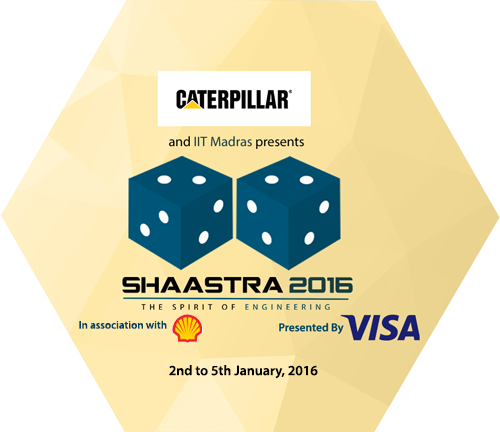
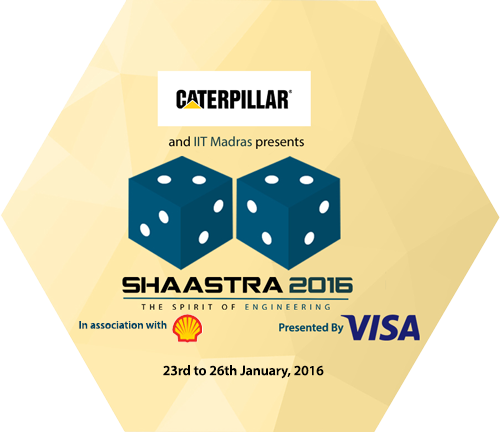
change dates

Changed region(s): [[0.33, 0.8426, 0.66, 0.8727]]

diff --git a/projects/mainsite/app/scripts/controllers/homepage.js b/projects/mainsite/app/scripts/controllers/homepage.js
@@ -67,7 +67,7 @@ angular.module('shaastra2016App')
   .controller("HomeCtrl", function ($scope, $timeout, ipCookie, $location, $anchorScroll) {
     animateHexagons();
 
-    var demo = ["Registrations have been opened!!!", "Checkout <a target='_blank' href='/#/shaastra-fellowship'>Shaastra Fellowship</a>"];
+    var demo = ["Shaastra-2016 is from 23rd January to 26th January 2016", "Registrations have been opened!!!", "Checkout <a target='_blank' href='/#/shaastra-fellowship'>Shaastra Fellowship</a>"];
     var a = 0;
     function changeText() {
       var blinkText = document.getElementById("blinkText");

diff --git a/projects/mainsite/app/views/homepage.html b/projects/mainsite/app/views/homepage.html
@@ -23,7 +23,7 @@
 
   <div class="container">
     <div id="blinkDiv">
-      <h4 id="blinkText">Registrations have been opened!!!</h4>
+      <h4 id="blinkText">Shaastra-2016 is from 23rd January to 26th January 2016</h4>
     </div>
   </div>    
 
